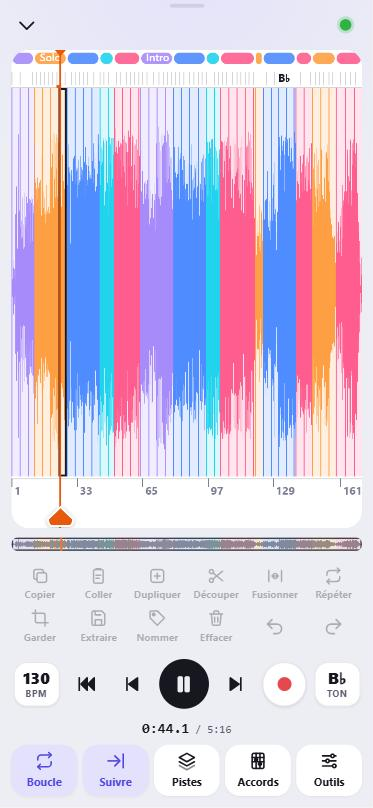
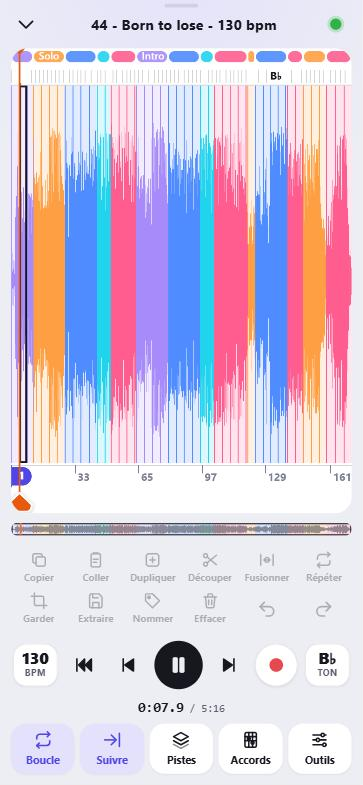
Nouvelles captures : mini-lecteur (Boucler, Lecteur avancé), métronome avec la batterie et ses motifs, lecteur avancé avec le titre et le taquet « 1 »

diff --git a/index.html b/index.html
@@ -49,7 +49,7 @@
 </div>
 </div>
 <!-- Maquette : le lecteur avancé sur un téléphone -->
-<div class="phone shot"><img alt="3. Rework it in blocks that loop" data-i18n-alt="shot_lecteur" height="808" loading="eager" src="img/captures/lecteur.png" width="373"/></div>
+<div class="phone shot"><img alt="3. Rework it in blocks that loop" data-i18n-alt="shot_lecteur" height="808" loading="eager" src="img/captures/lecteur.png?v=2" width="373"/></div>
 </div>
 </header>
 <!-- ============ PROBLÈME / SOLUTION ============ -->
@@ -93,14 +93,14 @@
 <div class="journey">
 <ol class="journey-steps"><li class="reveal"><h3 data-i18n="rec_s1_t">Record at rehearsal</h3><p data-i18n="rec_s1_p"><b>+</b> › <b>Record audio</b>, then the big red button, on a real drum groove (100 reference grooves in 10 styles, recorded in a studio) or a simple click. When you stop, the played part is pre-selected, the level is set, and the take is already cut into patterns: tap one to loop it. Trim and fade with a finger.</p></li><li class="reveal"><h3 data-i18n="rec_s2_t">No network? Keep it on the phone</h3><p data-i18n="rec_s2_p">Rehearsal rooms rarely have Wi-Fi: choose <b>Keep on the phone</b>, then <b>Send all</b> once you're back on the network. The take travels lossless (FLAC, about twice as light as WAV), resumes by itself after a cut without losing anything, and lands as an m4a in the folder you chose.</p></li><li class="reveal"><h3 data-i18n="rec_s3_t">The server understands the song</h3><p data-i18n="rec_s3_p">As soon as it arrives, your band's server analyzes it by itself: tempo, bars, sections, A/B/C patterns, chords. At night it also separates the vocals, guitars, bass and drums. On your PC, not in a data center.</p></li><li class="reveal"><h3 data-i18n="rec_s4_t">Rearrange it like building blocks</h3><p data-i18n="rec_s4_p">In the advanced player, the song arrives already cut into colored sections. Then it's up to you:</p><ul class="checks"><li><span data-i18n="rec_s4_l1">move sections and blocks: long press, then drag;</span></li><li><span data-i18n="rec_s4_l2">change their order, duplicate, delete, keep only a selection;</span></li><li><span data-i18n="rec_s4_l3">name the sections: Intro, Verse, Chorus, Bridge, Solo…;</span></li><li><span data-i18n="rec_s4_l4">repeat a loop as many times as you want (×2, ×3, ×8…), even a drum loop of a few seconds, with no gap;</span></li><li><span data-i18n="rec_s4_l5">extract a selection as a new file, or save the whole new arrangement.</span></li></ul><p class="journey-note" data-i18n="rec_s4_note">Everything can be undone. Corrections to the sections are shared with the whole band.</p></li><li class="reveal"><h3 data-i18n="rec_s5_t">Add your part on top</h3><p data-i18n="rec_s5_p">Still in the advanced player, the red button records a take over the song, aligned to the music. It becomes a mixer track and a file shared with the band, ready for Studio One or Cubase.</p></li><li class="reveal"><h3 data-i18n="rec_s6_t">Everyone makes their version, then on to the DAW</h3><p data-i18n="rec_s6_p">Save your arrangement: it becomes a new file in the band folder, which the others can listen to and comment on. When the structure is settled, <b>To Studio One or Cubase</b> creates a ready-to-open project with separated tracks, or you take the WAV into any DAW.</p></li></ol>
 <div class="journey-shots">
-<figure class="reveal"><div class="phone shot"><img alt="Recording to the click" data-i18n-alt="rec_shot1" height="808" loading="lazy" src="img/captures/metronome.png" width="373"/></div><figcaption data-i18n="rec_shot1">Recording to the click</figcaption></figure>
-<figure class="reveal"><div class="phone shot"><img alt="The song, cut into sections" data-i18n-alt="rec_shot2" height="808" loading="lazy" src="img/captures/lecteur.png" width="373"/></div><figcaption data-i18n="rec_shot2">The song, cut into sections</figcaption></figure>
+<figure class="reveal"><div class="phone shot"><img alt="Recording to the click" data-i18n-alt="rec_shot1" height="808" loading="lazy" src="img/captures/metronome.png?v=2" width="373"/></div><figcaption data-i18n="rec_shot1">Recording to the click</figcaption></figure>
+<figure class="reveal"><div class="phone shot"><img alt="The song, cut into sections" data-i18n-alt="rec_shot2" height="808" loading="lazy" src="img/captures/lecteur.png?v=2" width="373"/></div><figcaption data-i18n="rec_shot2">The song, cut into sections</figcaption></figure>
 </div>
 </div>
 <p class="center reveal" style="margin-top:30px"><a class="btn ghost" href="guide.html#tuto-repete"><span data-i18n="rec_cta">Step by step in the user guide →</span></a></p>
 </div></section><section class="" id="captures"><div class="wrap">
 <div class="section-head center reveal"><span class="eyebrow" data-i18n="shot_eyebrow">Real screenshots</span><h2 data-i18n="shot_title">From the rehearsal to your DAW, all on your phone</h2><p class="lead" data-i18n="shot_lead">Real screenshots, in the order you'll use them, with one of our own songs, "Born to lose". The app is available in French and English (the advanced player and the recorder are still in French for now).</p></div>
-<div class="gallery"><figure class="reveal"><div class="phone shot"><img alt="1. Record the rehearsal, to a click or a real drum groove" data-i18n-alt="shot_metronome" height="808" loading="lazy" src="img/captures/metronome.png" width="373"/></div><figcaption data-i18n="shot_metronome">1. Record the rehearsal, to a click or a real drum groove</figcaption></figure><figure class="reveal"><div class="phone shot"><img alt="2. Find it in the band folder" data-i18n-alt="shot_liste" height="808" loading="lazy" src="img/captures/liste.png" width="373"/></div><figcaption data-i18n="shot_liste">2. Find it in the band folder</figcaption></figure><figure class="reveal"><div class="phone shot"><img alt="3. Rework it in blocks that loop" data-i18n-alt="shot_lecteur" height="808" loading="lazy" src="img/captures/lecteur.png" width="373"/></div><figcaption data-i18n="shot_lecteur">3. Rework it in blocks that loop</figcaption></figure><figure class="reveal"><div class="phone shot"><img alt="4. Separate the instruments and mix" data-i18n-alt="shot_mixage" height="808" loading="lazy" src="img/captures/mixage.png" width="373"/></div><figcaption data-i18n="shot_mixage">4. Separate the instruments and mix</figcaption></figure><figure class="reveal"><div class="phone shot"><img alt="5. Play the chords, as guitar diagrams" data-i18n-alt="shot_accords" height="808" loading="lazy" src="img/captures/accords.png" width="373"/></div><figcaption data-i18n="shot_accords">5. Play the chords, as guitar diagrams</figcaption></figure><figure class="reveal"><div class="phone shot"><img alt="6. Share it, or send it to your DAW (Studio One, Cubase)" data-i18n-alt="shot_actions" height="808" loading="lazy" src="img/captures/actions.png" width="373"/></div><figcaption data-i18n="shot_actions">6. Share it, or send it to your DAW (Studio One, Cubase)</figcaption></figure></div></div></section><section class="alt dc-band" id="data-centers"><div class="wrap">
+<div class="gallery"><figure class="reveal"><div class="phone shot"><img alt="1. Record the rehearsal, to a click or a real drum groove" data-i18n-alt="shot_metronome" height="808" loading="lazy" src="img/captures/metronome.png?v=2" width="373"/></div><figcaption data-i18n="shot_metronome">1. Record the rehearsal, to a click or a real drum groove</figcaption></figure><figure class="reveal"><div class="phone shot"><img alt="2. Find it in the band folder" data-i18n-alt="shot_liste" height="808" loading="lazy" src="img/captures/liste.png?v=2" width="373"/></div><figcaption data-i18n="shot_liste">2. Find it in the band folder</figcaption></figure><figure class="reveal"><div class="phone shot"><img alt="3. Rework it in blocks that loop" data-i18n-alt="shot_lecteur" height="808" loading="lazy" src="img/captures/lecteur.png?v=2" width="373"/></div><figcaption data-i18n="shot_lecteur">3. Rework it in blocks that loop</figcaption></figure><figure class="reveal"><div class="phone shot"><img alt="4. Separate the instruments and mix" data-i18n-alt="shot_mixage" height="808" loading="lazy" src="img/captures/mixage.png" width="373"/></div><figcaption data-i18n="shot_mixage">4. Separate the instruments and mix</figcaption></figure><figure class="reveal"><div class="phone shot"><img alt="5. Play the chords, as guitar diagrams" data-i18n-alt="shot_accords" height="808" loading="lazy" src="img/captures/accords.png" width="373"/></div><figcaption data-i18n="shot_accords">5. Play the chords, as guitar diagrams</figcaption></figure><figure class="reveal"><div class="phone shot"><img alt="6. Share it, or send it to your DAW (Studio One, Cubase)" data-i18n-alt="shot_actions" height="808" loading="lazy" src="img/captures/actions.png" width="373"/></div><figcaption data-i18n="shot_actions">6. Share it, or send it to your DAW (Studio One, Cubase)</figcaption></figure></div></div></section><section class="alt dc-band" id="data-centers"><div class="wrap">
 <div class="section-head center reveal"><span class="eyebrow" data-i18n="dc_home_eyebrow">Your data, at home</span><h2 data-i18n="dc_home_title">Your music has no business in a data center</h2><p class="lead" data-i18n="dc_home_lead">Online storage services keep your rehearsals and unreleased demos in distant buildings owned by large companies, and charge you every month for the space. 28JoursBox does the opposite: everything stays on a PC in your band.</p></div>
 <div class="pillars dc-cards"><div class="pillar reveal"><h3 data-i18n="dc_c1_t">🏠 Stored at home</h3><p data-i18n="dc_c1_p">Files, versions, takes, analyses, separated tracks: everything is on the disk of your server PC. No third-party service stores your songs.</p></div><div class="pillar reveal"><h3 data-i18n="dc_c2_t">💶 Costs you control</h3><p data-i18n="dc_c2_p">No price per member or per gigabyte. You buy a disk once and pay the electricity of a PC. Our band: about 720 GB on a 4 TB disk.</p></div><div class="pillar reveal"><h3 data-i18n="dc_c3_t">🧠 AI at home</h3><p data-i18n="dc_c3_p">Instrument separation, chords, song structure and even speech-to-text transcription are computed on your PC, not by an online AI provider. Your demos and meetings never leave.</p></div><div class="pillar reveal"><h3 data-i18n="dc_c4_t">🔑 You hold the keys</h3><p data-i18n="dc_c4_p">No company account, no terms that change overnight, no price increase. Your files are ordinary files on each PC, readable without 28JoursBox.</p></div></div>
 <p class="center reveal" style="margin-top:34px"><a class="btn ghost" href="pourquoi.html"><span data-i18n="dc_home_more">Why not the cloud? Read the full argument →</span></a></p>
@@ -178,7 +178,7 @@
 <div class="feature">
 <div class="media reveal">
 <div class="photo"><img alt="A drummer with headphones in the recording room" data-i18n-alt="un_batteur_joue_dans_une" loading="lazy" src="img/photos/batteur-studio.jpg"/></div>
-<div class="phone shot overlay-phone"><img alt="1. Record the rehearsal, to a click or a real drum groove" data-i18n-alt="shot_metronome" height="808" loading="lazy" src="img/captures/metronome.png" width="373"/></div>
+<div class="phone shot overlay-phone"><img alt="1. Record the rehearsal, to a click or a real drum groove" data-i18n-alt="shot_metronome" height="808" loading="lazy" src="img/captures/metronome.png?v=2" width="373"/></div>
 </div>
 <div class="reveal">
 <span class="eyebrow" data-i18n="enregistrer_par_dessus">Record over it</span>

diff --git a/guide.html b/guide.html
@@ -212,7 +212,7 @@
 </section>
 <section id="fichiers">
 <h2>Sur le téléphone : les fichiers</h2>
-<figure><div class="phone shot"><img alt="Liste des fichiers avec le mini-lecteur" height="808" loading="lazy" src="img/captures/liste.png" width="373"/></div><figcaption>La liste d'un dossier, avec le mini-lecteur en bas et la barre de navigation. Sur un écran large (PC), la barre du bas devient un menu à gauche.</figcaption></figure>
+<figure><div class="phone shot"><img alt="Liste des fichiers avec le mini-lecteur" height="808" loading="lazy" src="img/captures/liste.png?v=2" width="373"/></div><figcaption>La liste d'un dossier, avec le mini-lecteur en bas et la barre de navigation. Sur un écran large (PC), la barre du bas devient un menu à gauche.</figcaption></figure>
 <h3 id="fichiers-navigation">Se déplacer</h3>
 <ul>
 <li><b>Barre du bas</b> : <span class="ui">Racine</span> (dossier principal), <span class="ui">Recherche</span>, <span class="ui">Récents</span> (les 100 derniers fichiers modifiés par le groupe), <span class="ui">Partages</span> (liens publics), <span class="ui">Inviter</span>, <span class="ui">Réglages</span>. Sur PC, le menu de gauche ajoute <span class="ui">Corbeille</span> et le bouton <span class="ui">Ajouter</span>.</li>
@@ -328,7 +328,7 @@
 <li>Si l'analyse n'est pas encore prête, « Analyse du morceau… » s'affiche quelques secondes. Sans analyse possible, le lecteur passe en lecture simple (pas de blocs, ⏪ et ⏩ sautent de 10 s).</li>
 </ul>
 <h3 id="lecteur-ecran">Ce qu'on voit</h3>
-<figure><div class="phone shot"><img alt="Le lecteur avancé en lecture" height="808" loading="lazy" src="img/captures/lecteur.png" width="373"/></div>
+<figure><div class="phone shot"><img alt="Le lecteur avancé en lecture" height="808" loading="lazy" src="img/captures/lecteur.png?v=2" width="373"/></div>
 <figcaption><b>En haut</b> : le <b>titre du morceau</b> au centre (le bouton <span class="ui">Enregistrer</span> prend sa place quand vous avez réarrangé le morceau) et la pastille de l'analyse (<b>verte</b> = analyse fine, <b>rouge</b> = analyse de base).<br/><br/>
 <b>Sur la forme d'onde</b>, de haut en bas : la <b>bande des parties</b> (Intro, Couplet, Refrain…), la <b>rangée des accords</b> (toucher un accord y amène la lecture), les <b>blocs</b> (une tourne chacun, avec sa lettre A, B, C), la <b>règle</b> avec les numéros de mesure et la tête de lecture orange.<br/><br/>
 <b>Dessous</b> : la frise du morceau entier, la barre d'édition, le transport (BPM, ⏮, ⏪, ▶, ⏩, ⏺, TON) et la barre <span class="ui">Boucle</span>, <span class="ui">Suivre</span>, <span class="ui">Pistes</span>, <span class="ui">Accords</span>, <span class="ui">Outils</span>.
@@ -443,7 +443,7 @@ Le bouton <span class="ui">Accords</span> ouvre les <b>diagrammes de guitare</b>
 <div class="callout tip"><span>💡</span><p>Une prise part du téléphone sans perte (FLAC) et l'envoi reprend tout seul après une coupure, à la réouverture de l'appli ou au retour du réseau. Une prise n'est effacée du téléphone qu'une fois arrivée sur le serveur. Un nouveau toucher du bouton rouge <b>remplace</b> la prise précédente.</p></div>
 <div class="callout warn"><span>⚠</span><p>Ne changez pas d'application pendant une prise : l'enregistrement s'arrête (ce qui a été enregistré est conservé). Un appel entrant l'arrête aussi. Une prise est limitée à 90 minutes. Il faut l'adresse <b>https</b> (lien d'invitation) et Safari (iPhone) ou Chrome (Android). Micro refusé sur iPhone : « aA » dans la barre d'adresse › Réglages du site web › Microphone › Autoriser.</p></div>
 <h3 id="studio-metronome">Enregistrer au clic (métronome)</h3>
-<figure><div class="phone shot"><img alt="Le réglage du métronome de l'enregistreur" height="808" loading="lazy" src="img/captures/metronome.png" width="373"/></div>
+<figure><div class="phone shot"><img alt="Le réglage du métronome de l'enregistreur" height="808" loading="lazy" src="img/captures/metronome.png?v=2" width="373"/></div>
 <figcaption>
 Le bouton <span class="ui">Clic</span>, à gauche du bouton rouge, ouvre le <span class="ui">Métronome</span> :<br/>
 <span class="ui">Activé</span> ; le tempo avec <span class="ui">−</span> / <span class="ui">+</span>, le curseur (40 à 220) ou <span class="ui">Taper</span> en rythme ; <span class="ui">Mesure</span> 2/4, 3/4, 4/4, 6/8 ; <span class="ui">Décompte</span> aucun, 1 ou 2 mesures ; <span class="ui">Clic pendant la prise</span> (avec un casque, le clic n'est pas enregistré).<br/><br/>
